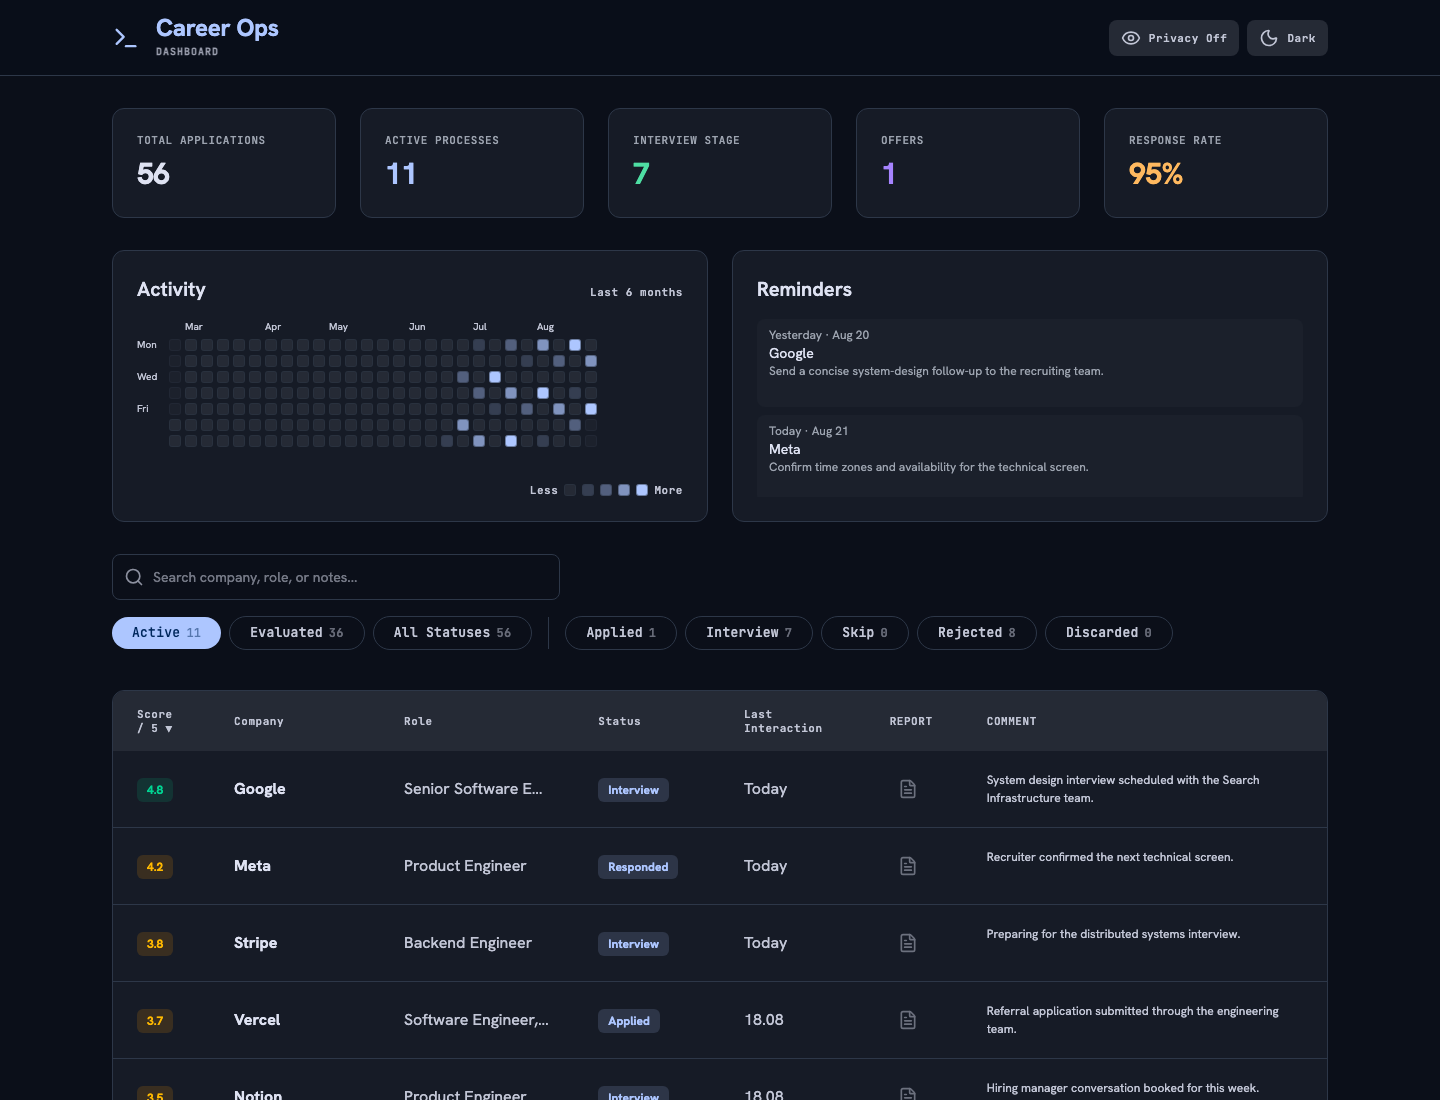
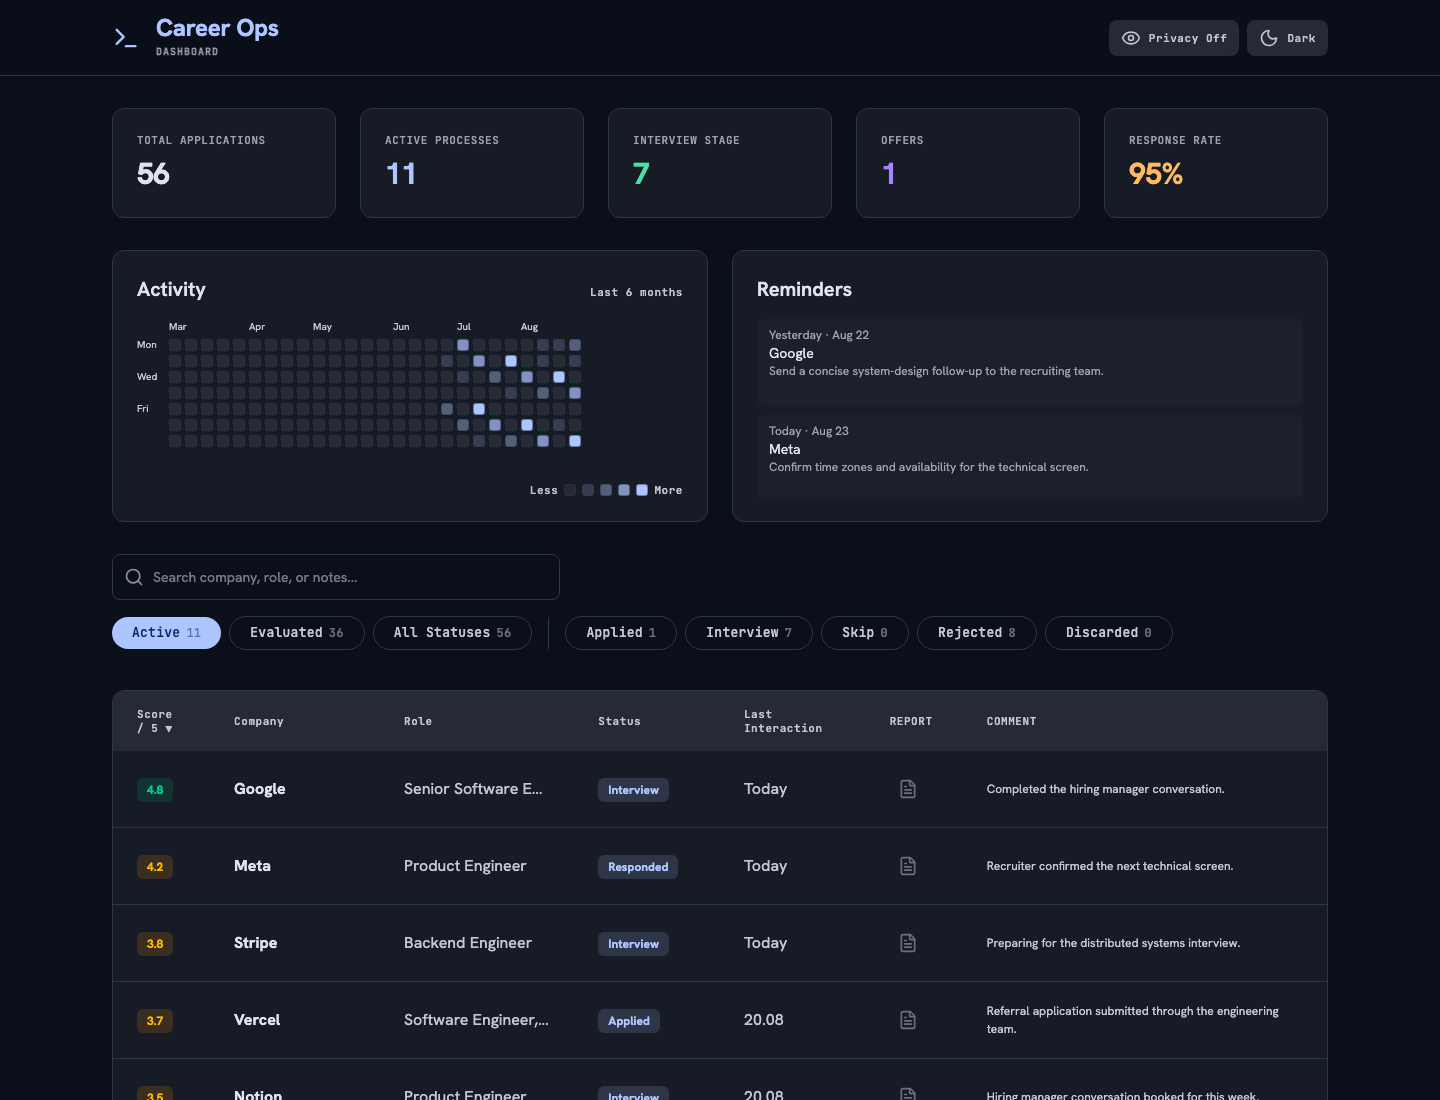
docs: improve README timeline guide (#17)
* feat(timeline): parse tagged application notes

* docs: improve README timeline guide

* Update README.md

diff --git a/scripts/capture-readme-preview.ts b/scripts/capture-readme-preview.ts
@@ -7,6 +7,7 @@ import { createReadmeDemoData } from "./readme-demo-data.js";
 
 const repositoryRoot = path.resolve(path.dirname(fileURLToPath(import.meta.url)), "..");
 const previewPath = path.join(repositoryRoot, "docs", "assets", "dashboard-preview.png");
+const timelinePreviewPath = path.join(repositoryRoot, "docs", "assets", "timeline-preview.png");
 const port = 4173;
 const previewUrl = `http://127.0.0.1:${port}`;
 const demoData = createReadmeDemoData();
@@ -70,6 +71,15 @@ try {
       .getByText("56", { exact: true })
       .waitFor();
     await page.screenshot({ path: previewPath });
+
+    const timelineRow = page.getByRole("row", { name: /google/i });
+    await timelineRow.scrollIntoViewIfNeeded();
+    await timelineRow.click();
+    const timeline = page
+      .getByRole("heading", { name: "Status: Interview" })
+      .locator("xpath=ancestor::tr[1]");
+    await timeline.waitFor();
+    await timeline.screenshot({ path: timelinePreviewPath });
   } finally {
     await browser.close();
   }
@@ -81,4 +91,4 @@ try {
   }
 }
 
-console.log(`Updated ${path.relative(repositoryRoot, previewPath)} with synthetic demo data.`);
+console.log(`Updated README preview assets with synthetic demo data.`);

diff --git a/scripts/readme-demo-data.ts b/scripts/readme-demo-data.ts
@@ -432,6 +432,14 @@ export function createReadmeDemoData(today = new Date()): {
   const anchorDate = localNoon(today);
   const applications = demoApplications.map((application, index) => ({
     ...application,
+    notes:
+      application.company === "Google"
+        ? [
+            `[${formatDate(addDays(anchorDate, -20))}·Evaluated] Identified a strong product and engineering fit.`,
+            `[${formatDate(addDays(anchorDate, -13))}·Applied] Submitted an application through the careers page.`,
+            `[${formatDate(addDays(anchorDate, -5))}·Interview] Completed the hiring manager conversation.`,
+          ].join("\n")
+        : application.notes,
     status: formatStatus(application.status),
     num: demoApplications.length - index,
     date: formatDate(addDays(anchorDate, -(activityDayOffsets[index] ?? 0))),

diff --git a/test/readme-demo-data.test.ts b/test/readme-demo-data.test.ts
@@ -49,3 +49,13 @@ test("spreads README demo activity across the preceding two months", () => {
     [...new Set(activityDays.map(({ count }) => count).filter((count) => count > 0))].sort(),
   ).toEqual([1, 2, 3, 4]);
 });
+
+test("includes a tagged active application for the timeline preview", () => {
+  const { applications } = createReadmeDemoData(new Date(2026, 7, 23, 12));
+  const timelineApplication = applications.find(({ company }) => company === "Google");
+
+  expect(timelineApplication?.notes).toContain("[2026-08-03·Evaluated]");
+  expect(timelineApplication?.notes).toContain("[2026-08-10·Applied]");
+  expect(timelineApplication?.notes).toContain("[2026-08-18·Interview]");
+  expect(timelineApplication?.status).toBe("Interview");
+});

diff --git a/README.md b/README.md
@@ -5,21 +5,52 @@
 
 > Unofficial community UI — not affiliated with or endorsed by career-ops or its maintainers.
 
-career-ops-dashboard is a local-first React and Express dashboard for viewing application-tracker data and Markdown reports from a local [career-ops](https://github.com/santifer/career-ops) checkout. It reads upstream data without changing it, keeps data on your machine, and binds to localhost by default.
+**career-ops-dashboard** is a free, local-first React and Express companion to a local [career-ops](https://github.com/santifer/career-ops) checkout. It presents application-tracker data, statistics, and Markdown reports in a convenient visual interface.
+
+It does not replace career-ops and cannot work without it.
+
+## Why?
+
+I prefer working with data in the terminal, but I find reports and statistics easier to consume visually. I created this local UI to make reports, statistics, and other job-search information easier to read and review, then shared it freely for others who may find it useful.
+
+## Important
+
+- **Read-only.** The dashboard never modifies career-ops data. Make all changes to your job-search data through career-ops in the terminal.
+- **Private and local-only.** It processes data on your machine, binds to localhost by default, and does not send, sync, or collect telemetry about your data.
+- **No accounts or API keys.** The dashboard requires no account, authentication, or API key, and does not collect or transmit environment or usage data.
+- **A companion to career-ops.** It only works with data generated by career-ops. Install and initialize career-ops first; this dashboard reads the tracker and reports it creates.
 
 ![Dashboard preview with synthetic demo data](docs/assets/dashboard-preview.png)
 
 ## Features
 
-- Browse, filter, and sort applications from the upstream tracker.
-- Review chronologically sorted reminders calculated by the upstream follow-up cadence command.
-- Open read-only Markdown reports in an accessible drawer.
-- Use the privacy mode to obscure visible application details on demand.
-- Choose light or dark appearance locally in the browser.
+- **Browse, filter, and sort** applications from the upstream tracker.
+- **Review global statistics**, including applications at each stage, interview totals, and response rate.
+- **Review chronologically sorted reminders** calculated by the upstream follow-up cadence command.
+- **Review your activity** in a GitHub-style heatmap.
+- **Open read-only Markdown reports** in an accessible drawer.
+- **Use Privacy Mode** to share statistics without revealing company names, roles, dates, scores, or notes.
+- **Review a timeline for each application.** The standard career-ops comment format works as-is; optionally add structured date-and-status tags for a richer timeline.
+
+## Optional timeline tracking
+
+![An expanded application timeline showing tagged dates, statuses, and comments](docs/assets/timeline-preview.png)
+
+career-ops can follow custom instructions for how it records and presents your job-search information. The dashboard supports the default single-comment format without any setup. For a detailed timeline, add the following rule to `modes/_custom.md` in your career-ops checkout:
+
+```md
+## Timeline Tracking Rule
+
+- **Notes Formatting:** Whenever you evaluate a vacancy, submit an application, or update its status in `data/applications.md` (whether directly or via `set-status.mjs`), always prepend a structured timeline tag to your comment before appending it to the `Notes` column.
+- **Format:** `[YYYY-MM-DD·<Status>] <Comment>` where `<Status>` is the status when the note is added.
+- **Example with `set-status.mjs`:** `node set-status.mjs 086 Applied --note "[2026-08-21·Applied] Submitted application via Greenhouse."`
+```
+
+The dashboard reads these tags to show a chronological timeline with each application's dates, statuses, and comments. Existing untagged comments remain supported.
 
 ## Privacy and security
 
-The dashboard reads data only from your local career-ops checkout. It does not write to upstream files, send telemetry, require authentication, or sync data to the cloud. Keep resumes, trackers, reports, and credentials out of issues, pull requests, and screenshots.
+The dashboard reads data only from your local career-ops checkout. It does not write to upstream files, send data to third parties, sync data to the cloud, require authentication, or collect telemetry. Operational errors may appear only in the local server console; the dashboard has no remote logging service. Keep resumes, trackers, reports, and credentials out of issues, pull requests, and screenshots.
 
 The server binds to `127.0.0.1` by default. Changing `HOST` may expose private job-search data to your local network.
 
@@ -31,13 +62,7 @@ The server binds to `127.0.0.1` by default. Changing `HOST` may expose private j
 
 ## Quick start
 
-Initialize career-ops first:
-
-```bash
-npx @santifer/career-ops init
-cd career-ops
-codex # or claude
-```
+First, initialize career-ops by following its [Quick Start guide](https://github.com/santifer/career-ops#quick-start).
 
 Complete the first-run onboarding in your AI CLI. It creates `data/applications.md`, which the dashboard reads as its tracker. Then exit the CLI and install the dashboard beside the career-ops directory:
 
@@ -50,7 +75,7 @@ bash bin/start.sh
 
 The start script expects the two directories to be side by side. Open the local address printed by the server when startup completes.
 
-If you start the dashboard before onboarding is complete, it shows a link to the official [career-ops Quick Start](https://github.com/santifer/career-ops#quick-start). The dashboard remains read-only and never creates or modifies the tracker itself.
+The dashboard remains read-only and never creates or modifies the tracker itself.
 
 ## Configuration
 
@@ -93,7 +118,7 @@ npx playwright install chromium
 npm run screenshot:readme
 ```
 
-The command starts the client with intercepted synthetic API responses, captures the dark-theme desktop view at 1440 × 1100, and overwrites `docs/assets/dashboard-preview.png`.
+The command starts the client with intercepted synthetic API responses, captures the dark-theme desktop view at 1440 × 1100, and overwrites `docs/assets/dashboard-preview.png` and `docs/assets/timeline-preview.png`.
 
 ## Architecture
 
